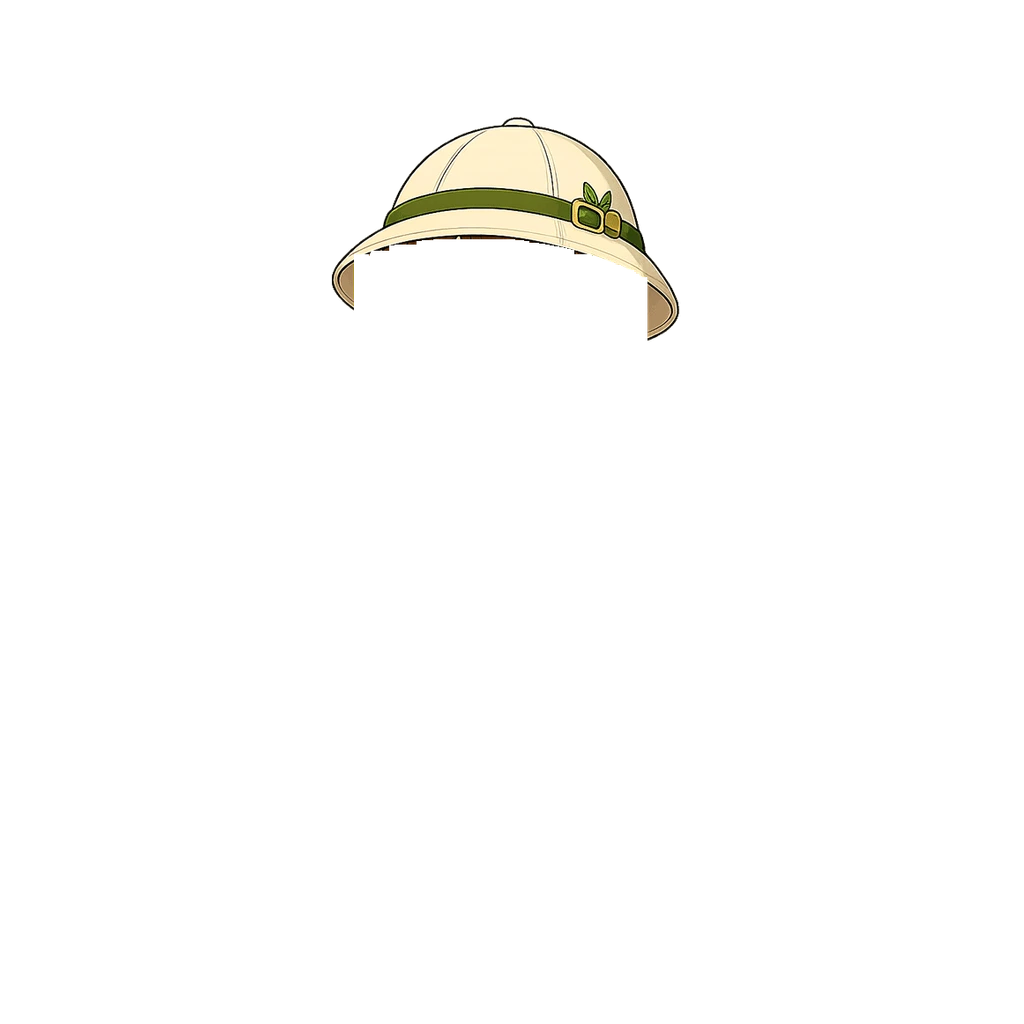
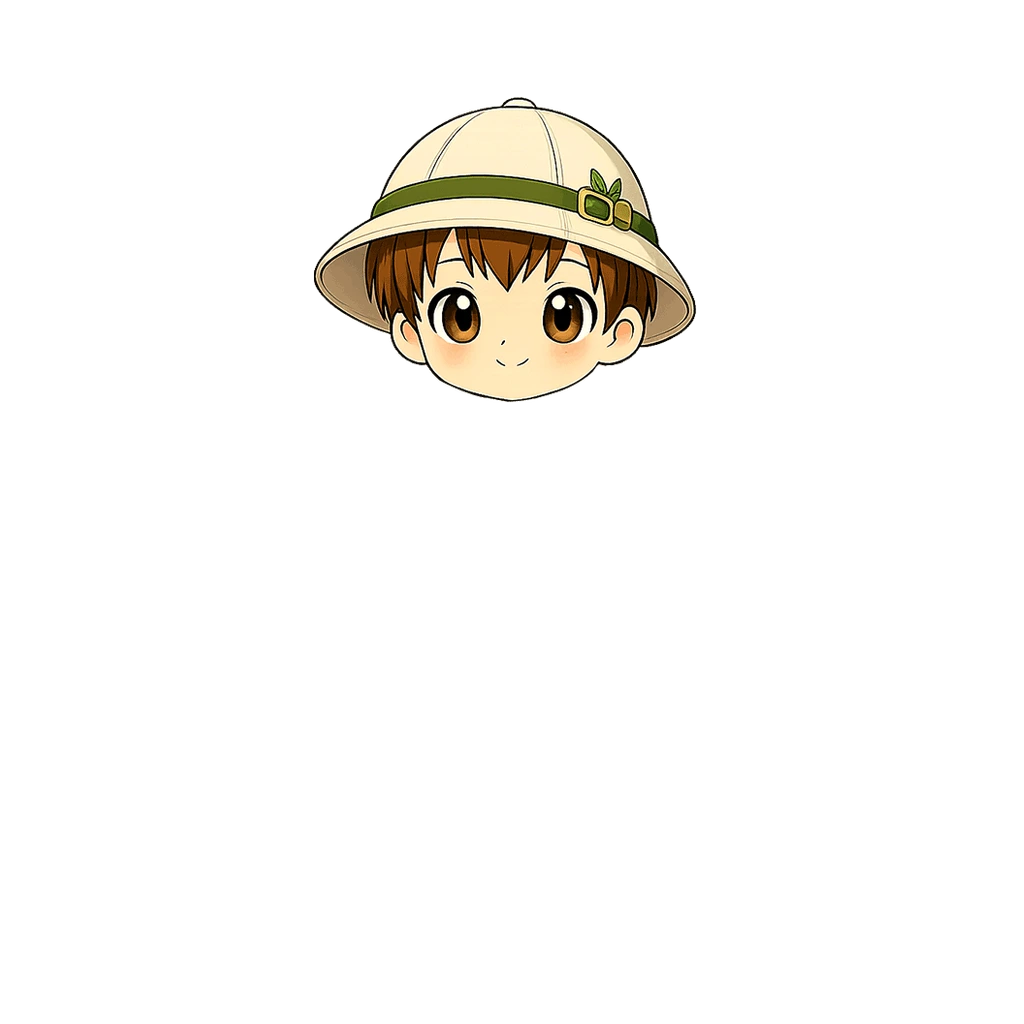
change: 탐험 헬멧을 '얼굴째 덮는' 방식으로 (#160)
* fix: 모험지도 발자국 길 이탈 수정 — v5 원화에서 모래길 중심선 자동 추출로 경로 재보정

- 짧은/긴 지도 PATH를 원화 색 분류 스캔(모래색 픽셀 행별 추적)으로 재추출
- 짧은 지도 17점 → 46점, 긴 지도 21점 → 68점 (S커브·다리 통과 정밀 반영)
- 다리 구간은 목재 데크라 색 추출이 안 되어 수동 보간

Claude-Session: https://claude.ai/code/session_018maNuYqDfFyRSe9uKpZhPR

* feat: 우측 상단 원형 뱃지 버튼 3종 세로 배치 (엄마용-아이전환-아바타)

- 사용자 신규 원화 4종 탑재: 엄마용(엄마 얼굴)·아이전환(남매)·내아바타(초록 실루엣)·성장캐릭터(새싹)
- 엄마용·아이전환 뱃지 그림 v2로 교체
- 내 아바타/성장캐릭터 토글: 좌측 하단 나무 팻말 → 우측 상단 3번째 원형 뱃지(52px)로 이동
- 배경 꾸미기 장착 시 크림 캡슐 분기 제거 (뱃지가 헤더 영역이라 불필요)
- 원본 4장 art-src/ 보관 + README 갱신, vite build 검증

Claude-Session: https://claude.ai/code/session_018maNuYqDfFyRSe9uKpZhPR

* feat: 모험지도 학원 건물 v6 정글 세트 교체 (나무집·돌아치·텐트·티키오두막)

- 사용자 신규 원화 4종 탑재: trim + 높이 220 + 채도 1.08 + webp q86
- 텐트·티키는 원화의 흰 원을 투명 펀칭(중심 flood-fill) — 이모지 뒤배치 방식 유지
- 구멍 중심·지름 실측(투명 블롭 스캔)으로 cx/cy/d 갱신, k는 구멍 표시 크기 통일 기준 재계산
- 구 건물 webp 4종 삭제(미참조 확인), 원본은 art-src/ 보관 + README 갱신

Claude-Session: https://claude.ai/code/session_018maNuYqDfFyRSe9uKpZhPR

* polish: 모험 홈 무게중심 미세조정 6종 (사용자 픽셀 단위 가이드)

- 캐릭터·펫 컨테이너 20px 위로 (translateY 6→-14) — 하단 시트 눌림감 해소
- 헤드라인 문구 아래 20px·우측 7px (relative, 레이아웃 불변) + 나침반 이모지 간격 축소
- 우측 뱃지 3번째(아바타 토글) marginTop 2px — 간격 착시 보정
- '곧 부화!' 말풍선 알쪽으로 11px 하강 + 4px 우측 — 알과 한 덩어리로
- 시트 핸들바 아래 여백 14→7px — 날짜바 소폭 상승
- 모험 탭 초록 채움 8% 소프트 (#A5BB60→#ACC06D)

Claude-Session: https://claude.ai/code/session_018maNuYqDfFyRSe9uKpZhPR

* polish: 모험지도 라벨·발자국·진행도 개선 (사용자 가이드 8종)

- 이름표 2줄 통일: 1줄 학원명 / 2줄 🕘 시간(진하게) — 전 라벨 동일 규칙
[…]

Changed region(s): [[0.2812, 0.0938, 0.6875, 0.4062]]

diff --git a/art-src/README.md b/art-src/README.md
@@ -12,6 +12,9 @@ ChatGPT로 생성한 **가공 전 원본 이미지**를 보관한다. 배포(dis
 '베이스가 있던 자리'에 맞춰 그려져 있다. 그래서 베이스를 새로 넣을 땐 반드시
 **현행 베이스의 bbox(키·중심x·발끝)에 맞춰 배율·위치를 잡아야** 장비가 어긋나지 않는다.
 현행 기준값 — 남아 x365~657 / y122~935, 여아 x349~673 / y121~936 (중심x 511).
+눈 위치(장비 정렬 기준) — 남아 간격 96.8·중심 (512, 321) / 여아 간격 106.8·중심 (510, 303).
+얼굴을 덮는 장비(모자 등)는 **큰 쪽(여아) 기준보다 살짝 크게** 잡아야 두 성별 모두
+베이스 얼굴이 삐져나오지 않는다 (현행 탐험 헬멧 = 원화의 0.97배).
 
 **정리 이력**: 교체·은퇴된 원본 26개(37MB)는 작업 폴더에서 삭제했다.
 필요하면 git 히스토리에서 되살릴 수 있다 — `git log --all --diff-filter=D --name-only -- art-src`
@@ -34,7 +37,7 @@ ChatGPT로 생성한 **가공 전 원본 이미지**를 보관한다. 배포(dis
 | base-girl.webp | 여아 아바타 베이스 원화 v2 (교체됨) | — |
 | boots-explorer-sockless.webp | 탐험 부츠 착용 원화 (맨발목, 현행) | avatar/shoes/explorer-boots.webp |
 | boots-cream-sockless.webp | 크림 부츠 착용 원화 (맨발목, 현행) | avatar/shoes/cream-boots.webp |
-| hat-explorer-v2.webp | 탐험 헬멧 착용 원화 v2 (현행 — 머리 부분을 잘라내고 '모자만' 남겨 탑재) | avatar/hat/explorer-helmet.webp |
+| hat-explorer-v2.webp | 탐험 헬멧 착용 원화 v2 (현행 — 얼굴째 덮는 방식으로 탑재, 배율 0.97) | avatar/hat/explorer-helmet.webp |
 | hat-explorer-wearing.webp | 탐험 헬멧 착용 원화 v1 (교체됨) | — |
 | boots-explorer-sockless-v2.webp | 탐험 부츠 착용 원화 (맨발목 v2, 최종 승인본) | avatar/shoes/explorer-boots.webp |
 | boots-green-wearing-v2.webp | 새싹 부츠 착용 원화 (v2, 현행 승인본) | avatar/shoes/green-boots.webp |
